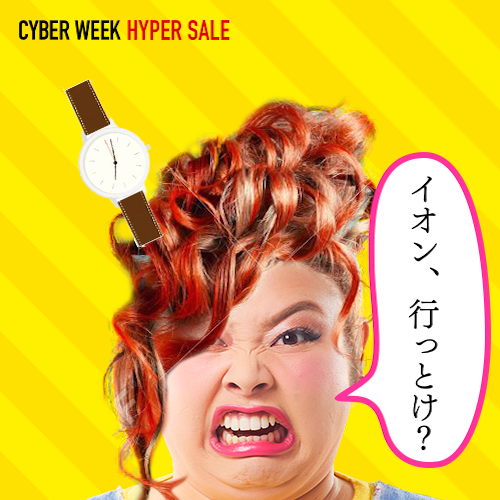
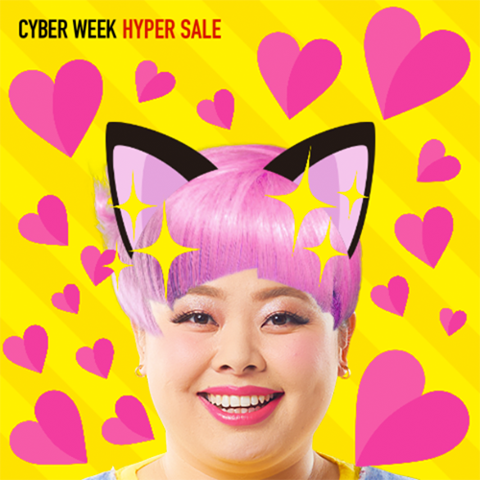
update howto image

diff --git a/src/App.js b/src/App.js
@@ -90,7 +90,7 @@ class HowTo extends Component {
             <div className="ui hidden divider"></div>
 
             <div className="howto-text">
-              渡辺直美の顔とハイパーな髪型を組み合わせてハイパーな渡辺直美を作成しましょう！
+              渡辺直美の顔やハイパーな髪型、メッセージなどを組み合わせてハイパーな渡辺直美を作成しましょう！
             </div>
 　　　　　　　<div className="ui hidden divider"></div>
 
